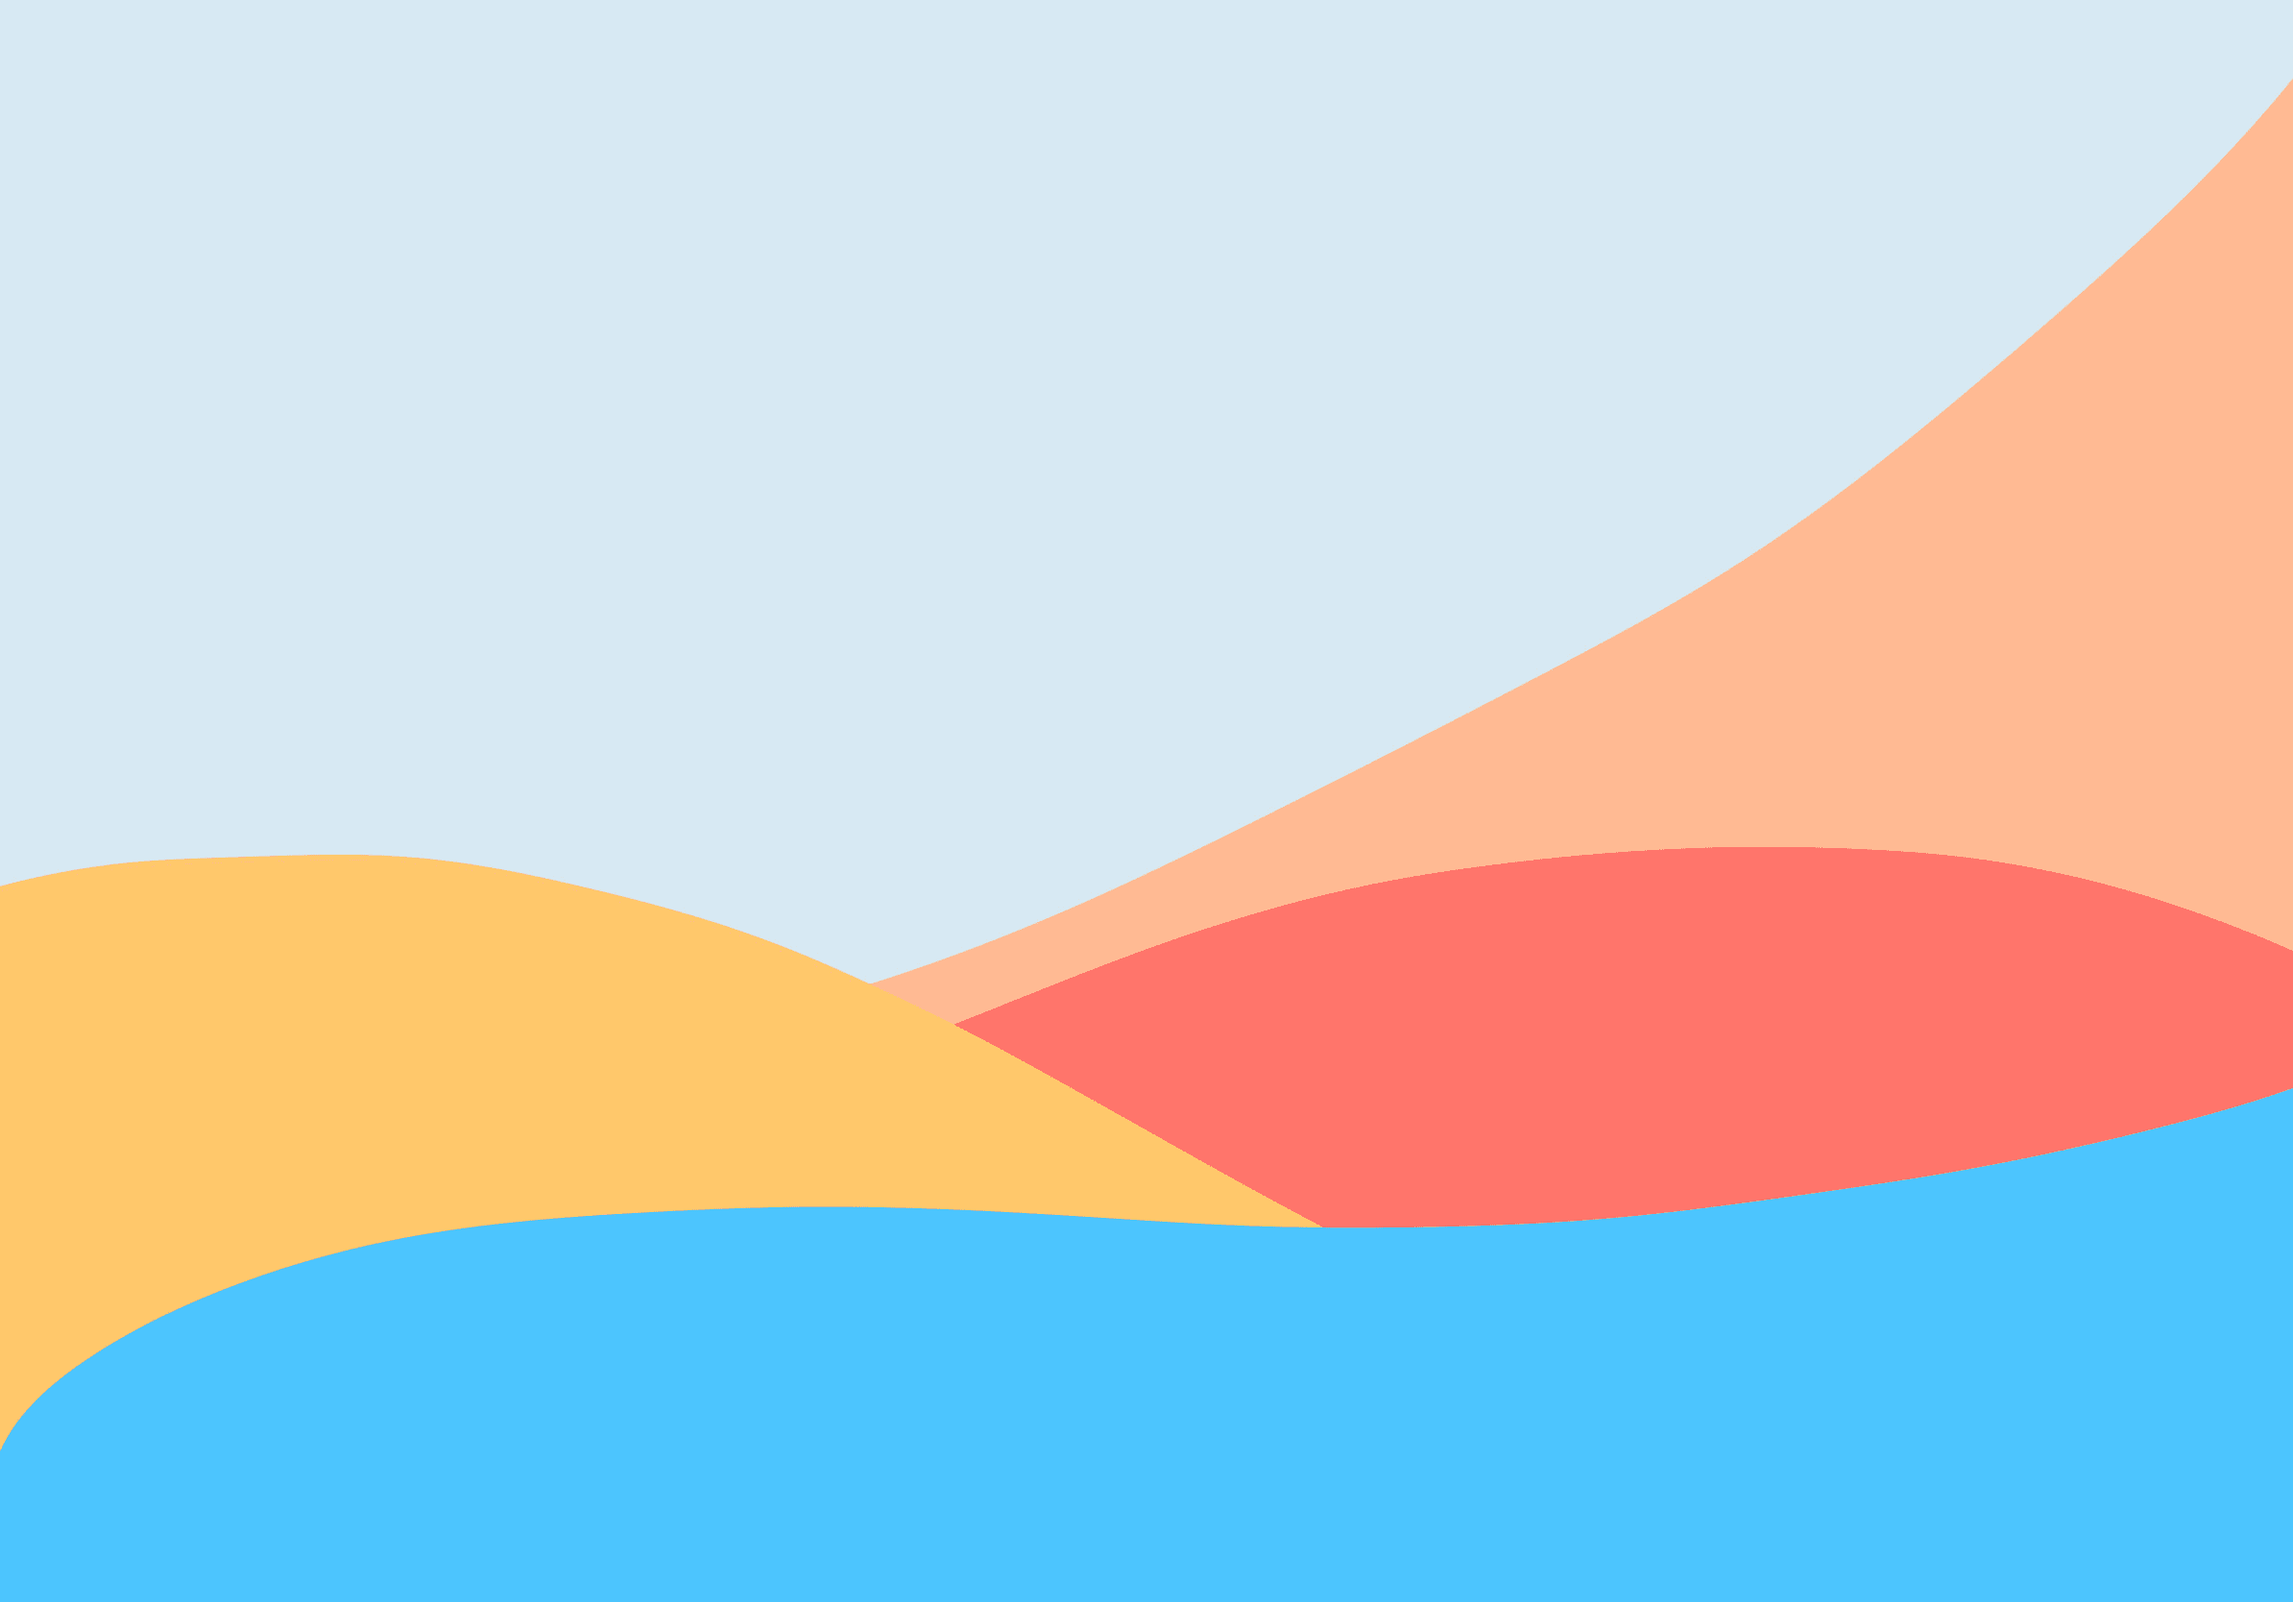
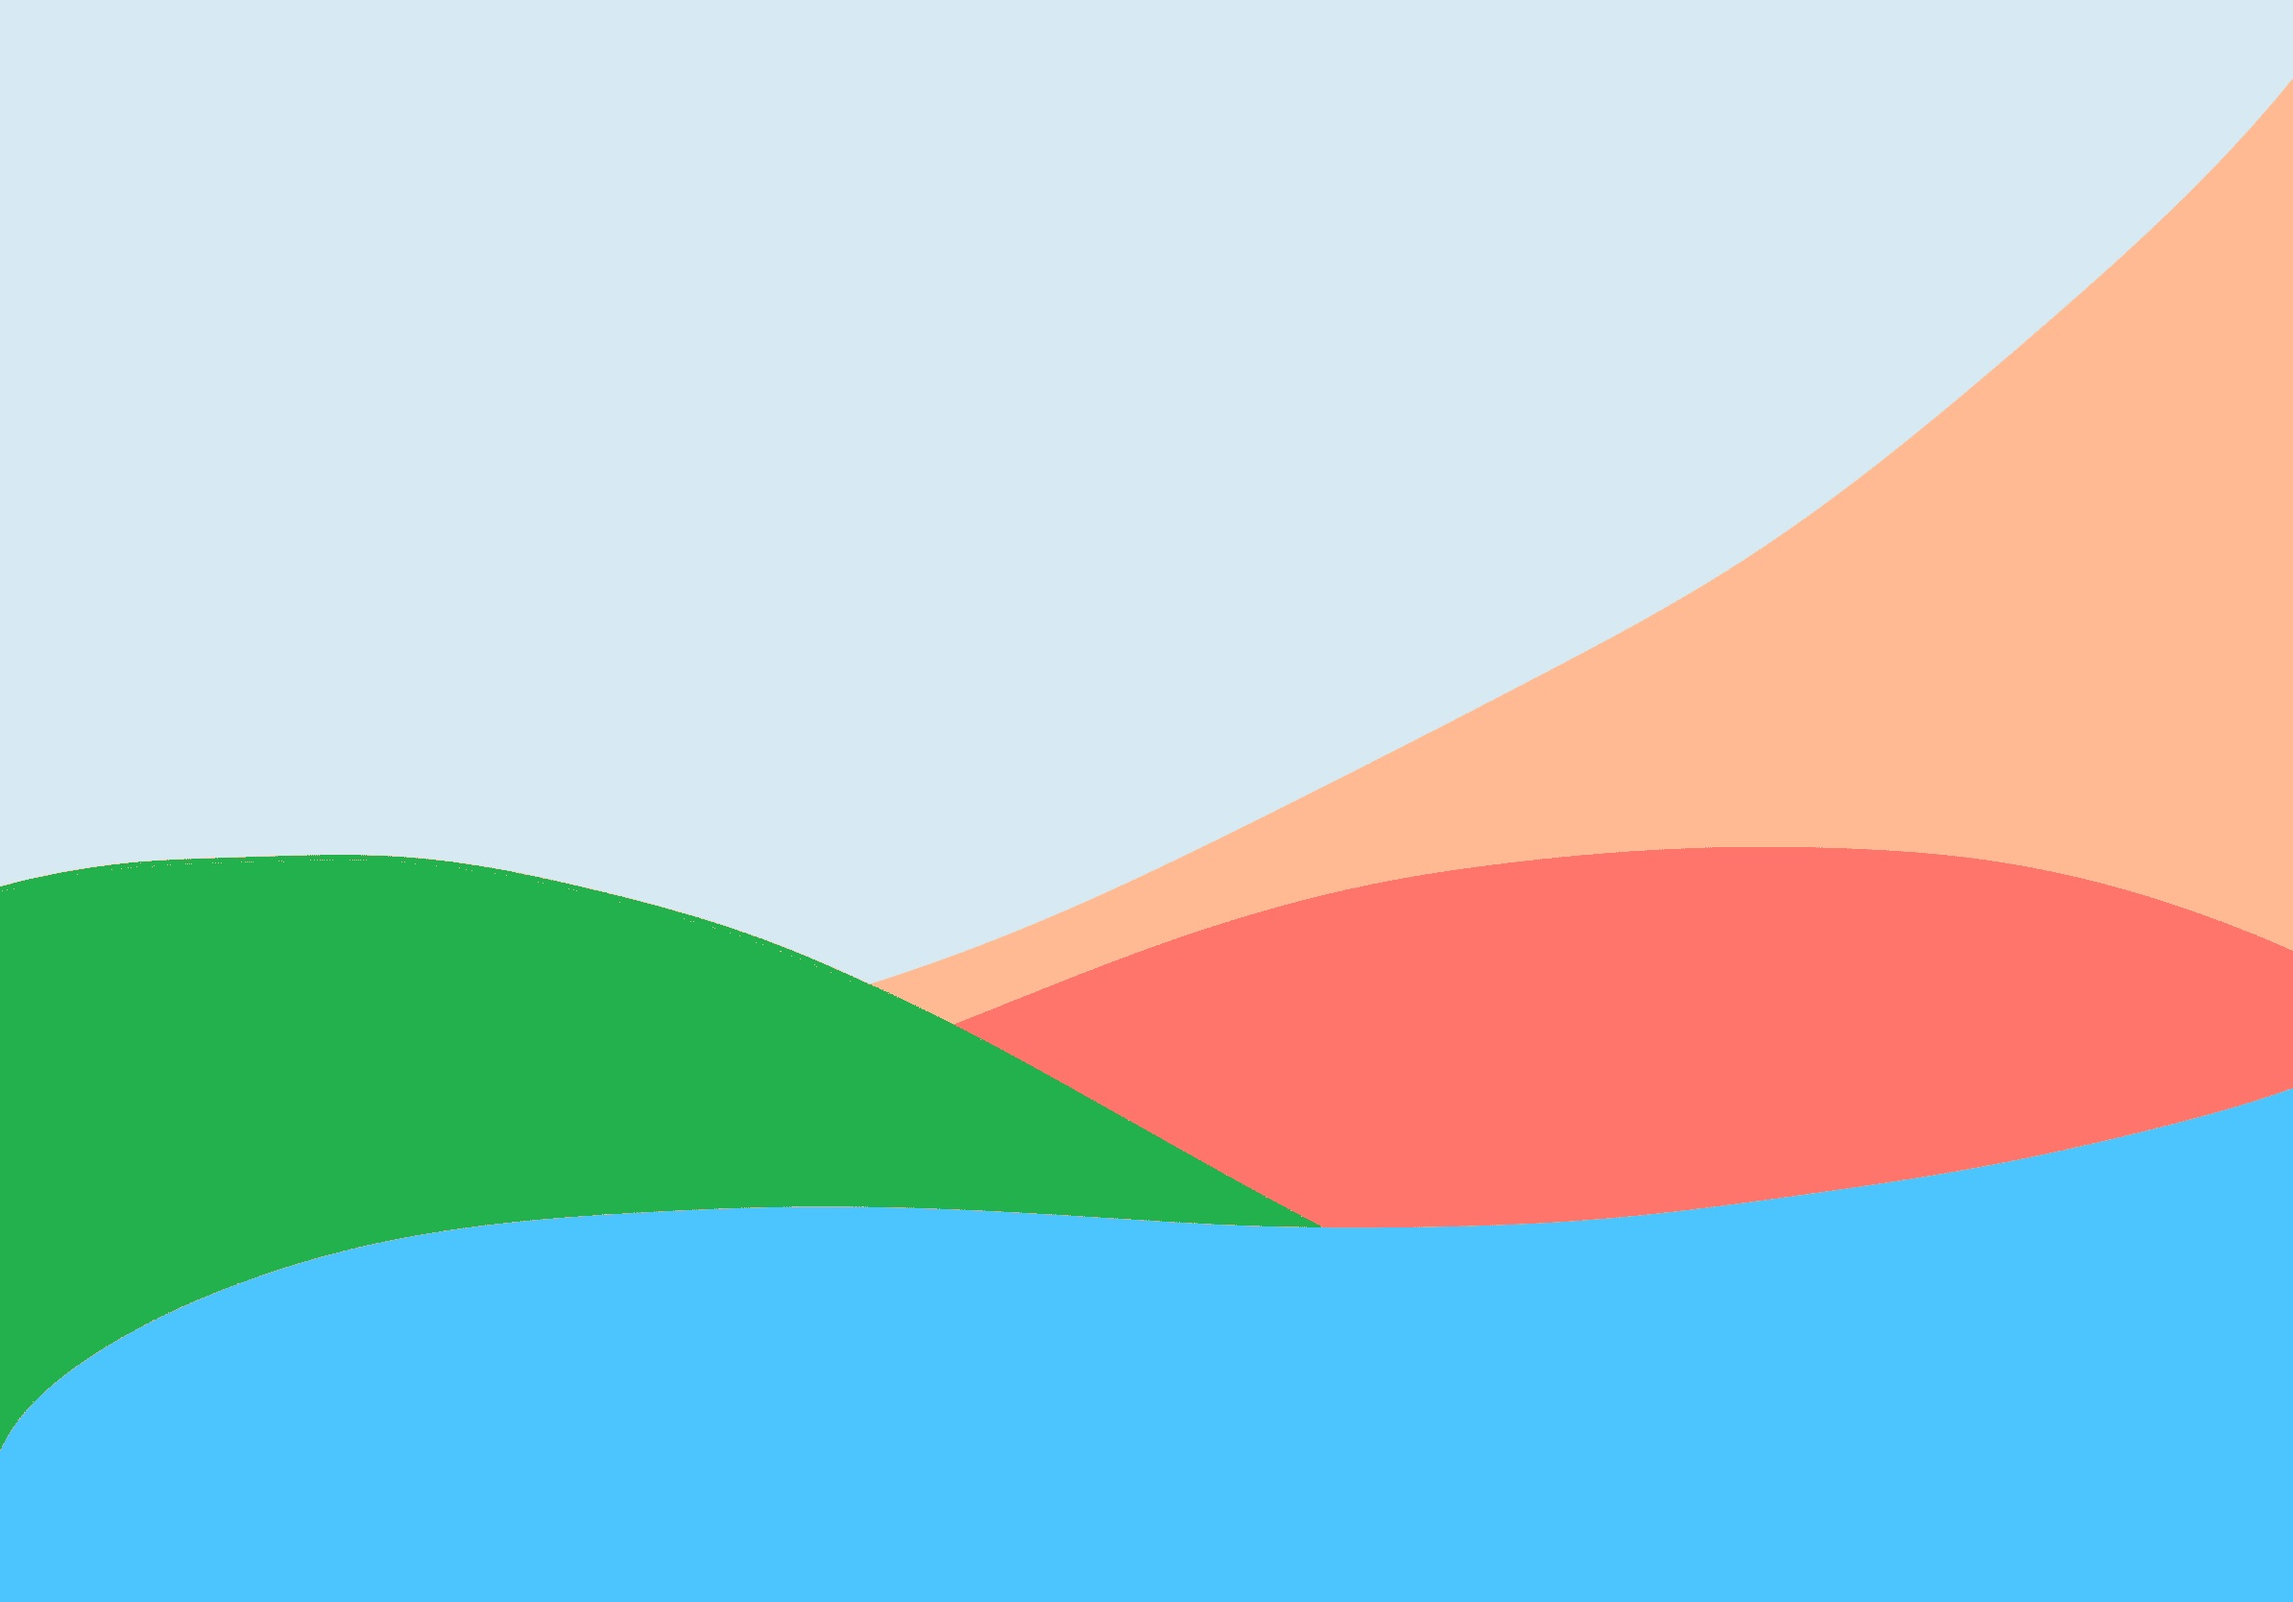
Image generation improved

Changed region(s): [[0.0, 0.53, 0.5888, 0.9041]]

diff --git a/kmeans.py b/kmeans.py
@@ -64,7 +64,7 @@ class K_means:
         self.initialize()
         distances = [100]
         minimo_local = 0.01        
-        for _ in range(0,25):
+        for _ in range(0,30):
             
             if max(distances) < minimo_local:
                 print("Break")
@@ -154,7 +154,7 @@ for cluster in clusters_test:
 
 def get_image(image_path):
     image = Image.open(image_path)
-    image = image.resize((180,280))
+    image = image.resize((220,280))
     width, height = image.size
     pixel_values = list(image.getdata())
     print(image.mode)
@@ -178,7 +178,7 @@ def get_image(image_path):
 
 for k in [2, 4, 8, 16, 32]:
     print(f"k={k}")
-    image_name = 'rainbow_cat.jpg'
+    image_name = 'pencils.jpg'
     data = get_image(image_name)
     
     # Aplanar la imagen
@@ -191,48 +191,26 @@ for k in [2, 4, 8, 16, 32]:
     a.fit()
     prediction = a.predict()
     
-    def change_color(c, k):
-        if c > k or c < 0:
-            raise Exception("Error in clasification")
-        colors = [[255, 255, 255], # Blanco
-                [0, 0, 0], # Negro
-                [128, 128, 0], # Amarillo oscuro
-                [255, 128, 128], # Rosa                
-                [0, 128, 128], # Cian oscuro
-                [255, 255, 0], # Amarillo
-                [0, 255, 255], # Cian
-                [0, 0, 255], # Azul
-                [255, 0, 0], # Rojo
-                [0, 255, 0], # Verde
-                [128, 0, 128], # Magenta oscuro
-                [192, 192, 192], # Gris claro
-                [128, 128, 128], # Gris medio
-                [255, 128, 0], # Naranja
-                [128, 255, 0], # Verde lima
-                [128, 0, 255], # Violeta
-                [0, 128, 255], # Azul claro
-                [128, 0, 0], # Rojo oscuro
-                [0, 128, 0], # Verde oscuro
-                [0, 0, 128], # Azul oscuro
-                [64, 64, 64], # Gris oscuro
-                [255, 0, 255], # Magenta 
-                [128, 255, 128], # Verde claro
-                [128, 128, 255], # Azul claro
-                [255, 255, 128], # Amarillo claro
-                [255, 128, 255], # Rosa claro
-                [128, 255, 255], # Cian claro
-                [192, 0, 0], # Rojo más oscuro
-                [0, 192, 0], # Verde más oscuro
-                [0, 0, 192], # Azul más oscuro
-                [192, 192, 0], # Amarillo más oscuro
-                [192, 0, 192], # Magenta más oscuro
-                [0, 192, 192], # Cian más oscuro
-            ]
-        return colors[c]
+    def get_colors(predictions, k):
+        "Obtiene los colores para la paleta de k colores"
+        colors = []
+        for i in range(k):
+            # Conseguir la posicion de un valor perteneciente a
+            # la clase k_i
+            try:
+                pos = predictions.index(i)
+            except ValueError:
+                # Si el cluster k no tiene asignacion, su color nunca
+                # es usado.
+                pos = 0
+            colors.append(Z[pos])
+        return colors
 
     # Convertir las predicciones en colores
+    colors = get_colors(prediction, k)
     for y in range(len(Z)):
-        Z[y] = change_color(prediction[y], k)
+          
+        Z[y] = colors[prediction[y]]
 
     new = []
     base = 0
@@ -242,4 +220,4 @@ for k in [2, 4, 8, 16, 32]:
     new=np.array(new)
 
     im = Image.fromarray(new.astype(np.uint8), 'RGB')
-    im.save(f"outputs_images\\output_{image_name.split('.')[0]}mod_k={k}.jpg")
+    im.save(f"outputs_images\\output_{image_name.split('.')[0]}_k={k}.jpg")
